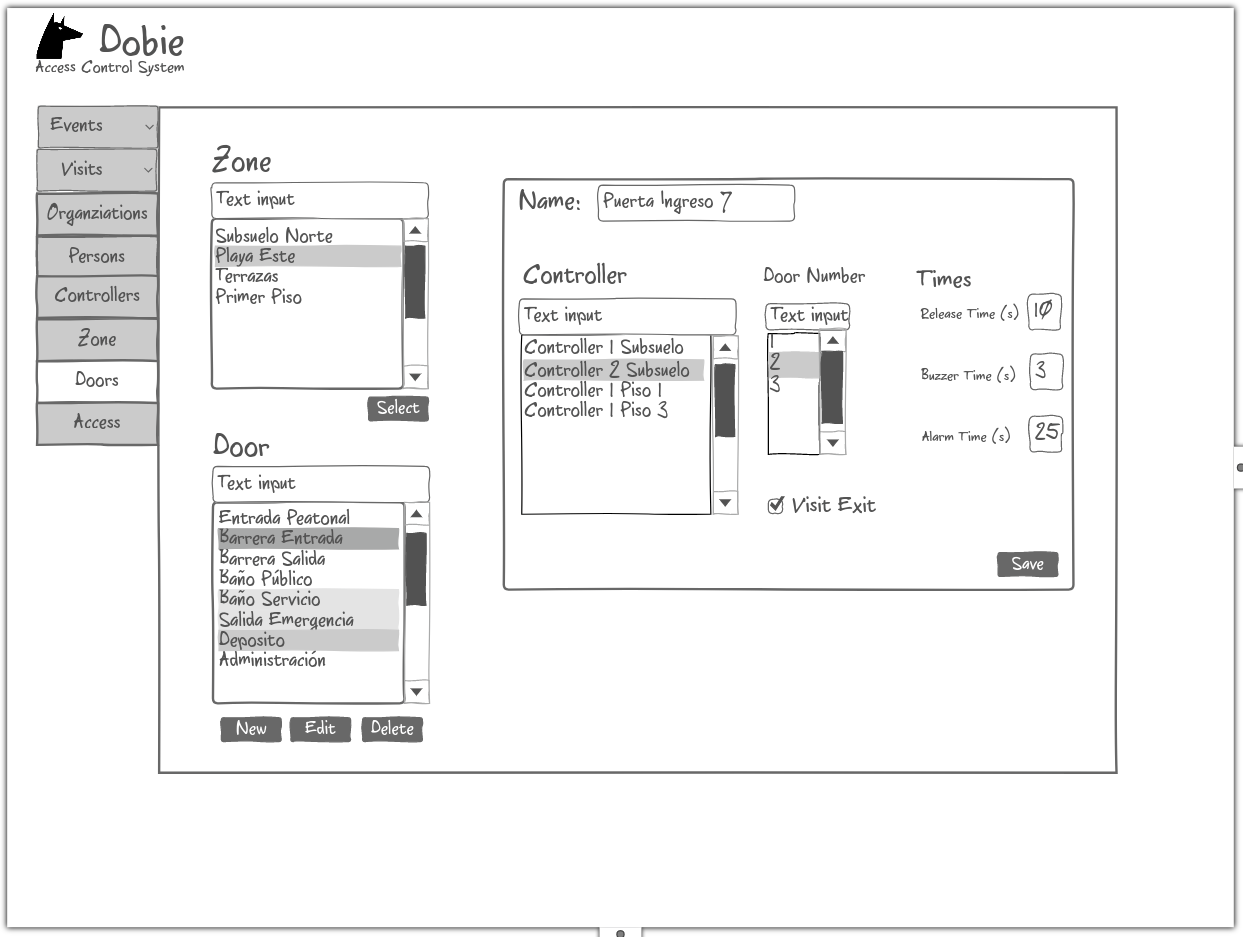
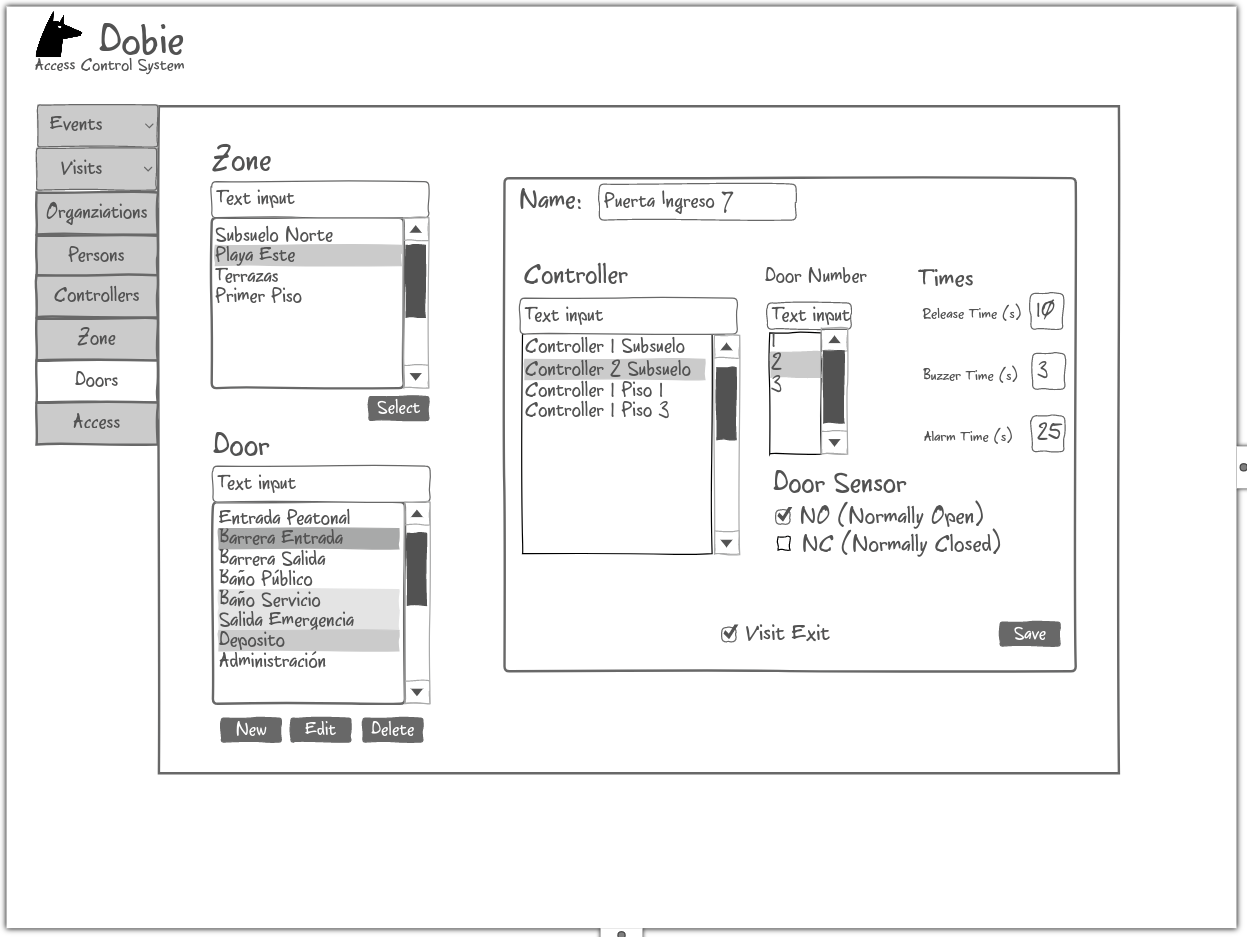
Modifications to add Sensor Type in door screen

diff --git a/docs/front_end_specs.rst b/docs/front_end_specs.rst
@@ -3050,14 +3050,53 @@ To get from server the current list of doors in each zone, the following REST me
 **Response:**
 
 .. code-block::
-    
+
   HTTP/1.0 200 OK
   Content-Type: application/json
-  Content-Length: 754
+  Content-Length: 1624
   Server: Werkzeug/0.14.1 Python/3.6.4
-  Date: Fri, 16 Mar 2018 19:54:32 GMT
+  Date: Mon, 09 Apr 2018 20:21:51 GMT
   
   [
+    {
+      "alrmTime": 10, 
+      "bzzrTime": 3, 
+      "controllerId": 2, 
+      "doorNum": 1, 
+      "id": 1, 
+      "isVisitExit": 0, 
+      "name": "Molinete 1", 
+      "resStateId": 1, 
+      "rlseTime": 7, 
+      "snsrType": 1, 
+      "uri": "http://localhost:5000/api/v1.0/door/1"
+    }, 
+    {
+      "alrmTime": 10, 
+      "bzzrTime": 3, 
+      "controllerId": 2, 
+      "doorNum": 2, 
+      "id": 2, 
+      "isVisitExit": 0, 
+      "name": "Puerta 2", 
+      "resStateId": 1, 
+      "rlseTime": 7, 
+      "snsrType": 1, 
+      "uri": "http://localhost:5000/api/v1.0/door/2"
+    }, 
+    {
+      "alrmTime": 10, 
+      "bzzrTime": 3, 
+      "controllerId": 2, 
+      "doorNum": 3, 
+      "id": 3, 
+      "isVisitExit": 0, 
+      "name": "Barrera 5", 
+      "resStateId": 1, 
+      "rlseTime": 7, 
+      "snsrType": 1, 
+      "uri": "http://localhost:5000/api/v1.0/door/3"
+    }, 
     {
       "alrmTime": 10, 
       "bzzrTime": 3, 
@@ -3068,6 +3107,7 @@ To get from server the current list of doors in each zone, the following REST me
       "name": "Ba\u00f1o 3", 
       "resStateId": 1, 
       "rlseTime": 7, 
+      "snsrType": 1, 
       "uri": "http://localhost:5000/api/v1.0/door/4"
     }, 
     {
@@ -3080,6 +3120,7 @@ To get from server the current list of doors in each zone, the following REST me
       "name": "Molinte 5", 
       "resStateId": 1, 
       "rlseTime": 7, 
+      "snsrType": 1, 
       "uri": "http://localhost:5000/api/v1.0/door/5"
     }, 
     {
@@ -3092,6 +3133,7 @@ To get from server the current list of doors in each zone, the following REST me
       "name": "Ingreso 2", 
       "resStateId": 1, 
       "rlseTime": 7, 
+      "snsrType": 1, 
       "uri": "http://localhost:5000/api/v1.0/door/6"
     }
   ]
@@ -3187,7 +3229,7 @@ Add Door
   
 
 | The **availDoors** field has a list with the door number slots availables in the controller.
-| Once selected, the **door number** from the ``availDoors`` list, the **release time**, the **buzzer time**, the **alarm timeout** and **visit exit**, the following POST method should be sent to the server: 
+| Once selected, **door number** from ``availDoors`` list, **snsrType**, **release time**, **buzzer time**, **alarm timeout** and **visit exit**, the following POST method should be sent to the server: 
 
 
 
@@ -3202,10 +3244,13 @@ Add Door
 **JSON**
 
 .. code-block::
+  
+  {"name": "Entrada 1era", "doorNum": 2, "controllerId": 2, "snsrType": 1, "rlseTime": 7, "bzzrTime": 3, "alrmTime": 10, "zoneId": 1, "isVisitExit": 0}
 
-  {"name": "Entrada 1era", "doorNum": 2, "controllerId": 2, "rlseTime": 7, "bzzrTime": 3, "alrmTime": 10, "zoneId": 2, "isVisitExit": 1}
-  
-  
+
+The **snsrType** field should be **0** if the **NO** checkbox is selected. Otherwise, if **NC** checkbox is selected, it should be **1**. Both checkboxes can't be selected at the same time. 
+
+
 **Response:**
 
 .. code-block::
@@ -3220,7 +3265,7 @@ Add Door
     "code": 201, 
     "message": "Door added", 
     "status": "OK", 
-    "uri": "http://172.18.0.5:5000/api/v1.0/door/13"
+    "uri": "http://172.18.0.5:5000/api/v1.0/door/7"
   }
 
 
@@ -3267,25 +3312,26 @@ Get one Door
 
   HTTP/1.0 200 OK
   Content-Type: application/json
-  Content-Length: 246
+  Content-Length: 260
   Server: Werkzeug/0.14.1 Python/3.6.4
-  Date: Mon, 19 Mar 2018 15:40:41 GMT
+  Date: Mon, 09 Apr 2018 20:30:44 GMT
   
   {
     "alrmTime": 10, 
     "bzzrTime": 3, 
-    "controllerId": 2, 
-    "doorNum": 2, 
-    "id": 17, 
+    "controllerId": 1, 
+    "doorNum": 1, 
+    "id": 4, 
     "isVisitExit": 1, 
-    "name": "Entrada 1era", 
-    "resStateId": 4, 
+    "name": "Entrada 3era", 
+    "resStateId": 1, 
     "rlseTime": 7, 
-    "uri": "http://172.18.0.5:5000/api/v1.0/door/7", 
-    "zoneId": 2
+    "snsrType": 1, 
+    "uri": "http://localhost:5000/api/v1.0/door/4", 
+    "zoneId": 1
   }
-
-
+  
+  
 
 
 Edit a Door
@@ -3305,7 +3351,7 @@ When **edit** button is pressed the following REST method should be sent to the 
 
 .. code-block::
 
-  {"name": "Entrance One", "doorNum": 2, "controllerId": 2, "rlseTime": 7, "bzzrTime": 3, "alrmTime": 10, "zoneId": 2, "isVisitExit": 1}
+  {"name": "Entrance One", "doorNum": 2, "controllerId": 2, "snsrType": 1, "rlseTime": 7, "bzzrTime": 3, "alrmTime": 10, "zoneId": 2, "isVisitExit": 1}
   
   
   
